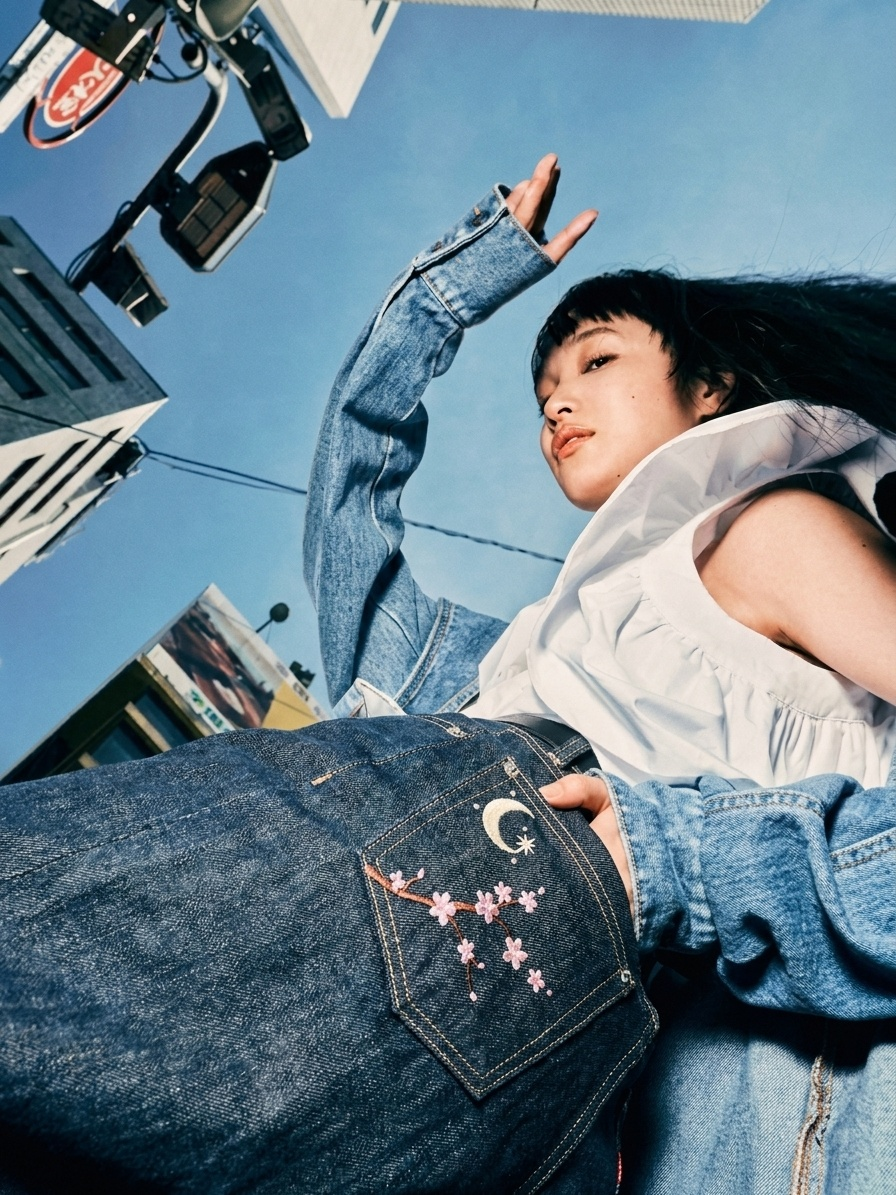
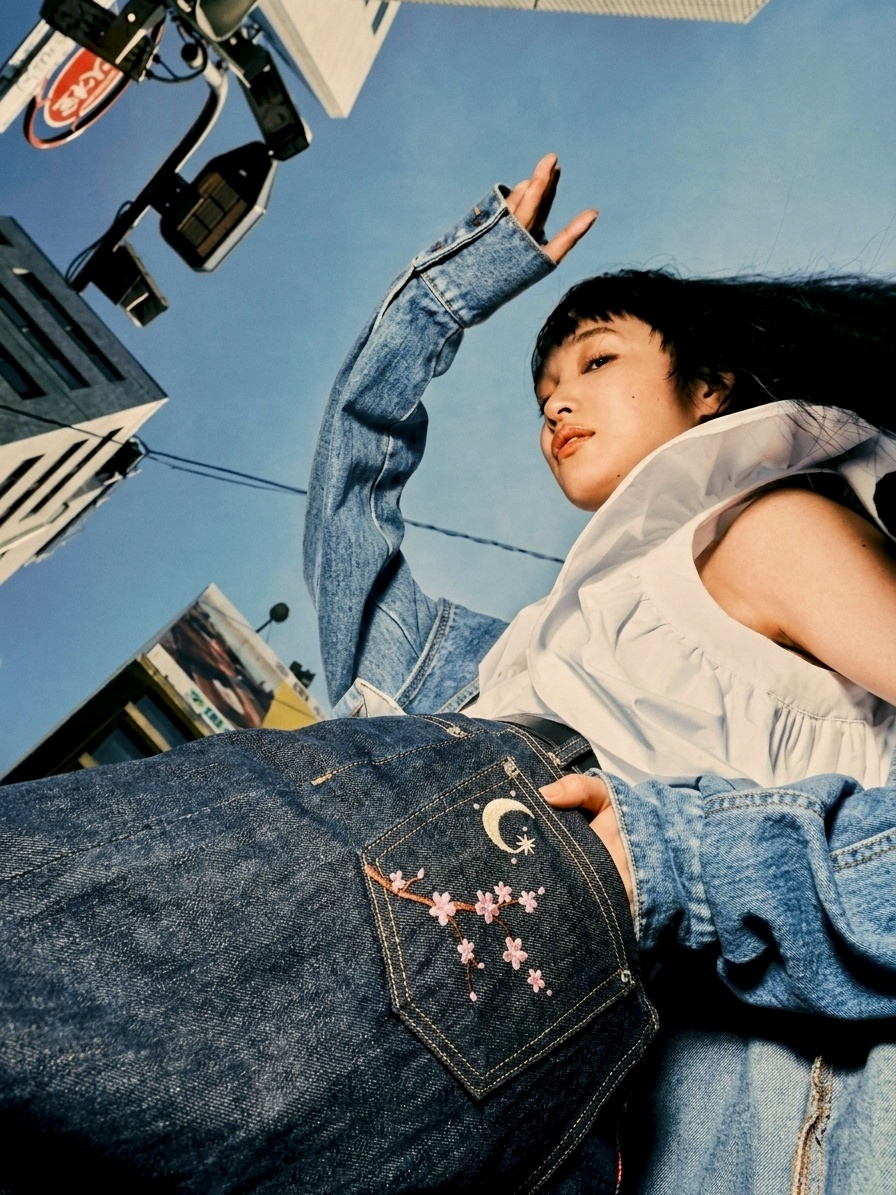
Colour-match the new feed photos within each set
Adds match_sets.py, which pulls each row's photos toward one shared look.
Ungraded originals stay local in my-posts/ungraded/.

diff --git a/match_sets.py b/match_sets.py
@@ -1,0 +1,62 @@
+"""Colour-match the feed photos within each set.
+
+Each set (one row of the grid) is pulled toward its own shared look: the average
+colour, brightness and contrast of the photos in that set. Sets keep their own character.
+
+Reads my-posts/ungraded/, writes my-posts/.
+
+    python3 match_sets.py
+"""
+import pathlib
+import numpy as np
+from PIL import Image
+
+HERE = pathlib.Path(__file__).parent
+SRC, DST = HERE / "my-posts" / "ungraded", HERE / "my-posts"
+
+SETS = [["01", "02", "03"], ["04", "05", "06"], ["07", "08"]]
+STRENGTH_L = 0.45      # how far brightness/contrast move toward the set's look (0–1)
+STRENGTH_AB = 0.70     # how far colour moves toward the set's look (0–1)
+
+
+# --- sRGB <-> CIELAB ---------------------------------------------------------
+M = np.array([[0.4124, 0.3576, 0.1805], [0.2126, 0.7152, 0.0722], [0.0193, 0.1192, 0.9505]])
+WHITE = np.array([0.95047, 1.0, 1.08883])
+
+
+def to_lab(rgb):
+    c = rgb / 255.0
+    c = np.where(c > 0.04045, ((c + 0.055) / 1.055) ** 2.4, c / 12.92)
+    xyz = c @ M.T / WHITE
+    f = np.where(xyz > 0.008856, np.cbrt(xyz), 7.787 * xyz + 16 / 116)
+    return np.stack([116 * f[..., 1] - 16, 500 * (f[..., 0] - f[..., 1]), 200 * (f[..., 1] - f[..., 2])], -1)
+
+
+def to_rgb(lab):
+    fy = (lab[..., 0] + 16) / 116
+    f = np.stack([fy + lab[..., 1] / 500, fy, fy - lab[..., 2] / 200], -1)
+    xyz = np.where(f ** 3 > 0.008856, f ** 3, (f - 16 / 116) / 7.787) * WHITE
+    c = xyz @ np.linalg.inv(M).T
+    c = np.where(c > 0.0031308, 1.055 * np.clip(c, 0, None) ** (1 / 2.4) - 0.055, 12.92 * c)
+    return np.clip(c * 255 + 0.5, 0, 255).astype(np.uint8)
+
+
+def stats(lab):
+    flat = lab.reshape(-1, 3)
+    return flat.mean(0), flat.std(0) + 1e-6
+
+
+if __name__ == "__main__":
+    for group in SETS:
+        labs = {n: to_lab(np.asarray(Image.open(SRC / f"{n}.jpg").convert("RGB")).astype(np.float64)) for n in group}
+        st = {n: stats(l) for n, l in labs.items()}
+        t_mu = np.mean([s[0] for s in st.values()], 0)
+        t_sd = np.mean([s[1] for s in st.values()], 0)
+        k = np.array([STRENGTH_L, STRENGTH_AB, STRENGTH_AB])
+        for n, lab in labs.items():
+            mu, sd = st[n]
+            new_mu = mu + (t_mu - mu) * k
+            new_sd = sd + (t_sd - sd) * k
+            out = (lab - mu) / sd * new_sd + new_mu
+            Image.fromarray(to_rgb(out)).save(DST / f"{n}.jpg", quality=95)
+            print(f"set {group}: {n}.jpg matched")
